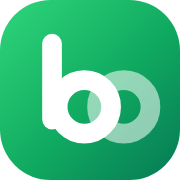
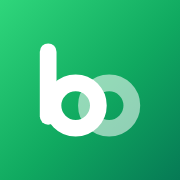
Bobobank: install on the home screen as an app
- Web app manifest and icons (180, 192, 512, maskable), iOS standalone meta tags; the app opens on /app without the address bar.
- Install hint on the home screen (dismissible) and in the profile: iPhone instructions for Safari, Chrome's own install dialog on Android.
- The header grows by the safe-area inset instead of squeezing its content under the notch.

Claude-Session: https://claude.ai/code/session_01468oEdDbCYZ4Yb862GyP5k

diff --git a/bobobank/web/src/components/InstallApp.tsx b/bobobank/web/src/components/InstallApp.tsx
@@ -1,0 +1,70 @@
+import { PlusSquare, Share, Smartphone, X } from 'lucide-react';
+import { useEffect, useState } from 'react';
+import { canPrompt, hideInstall, installHidden, isIOS, isStandalone, onInstallChange, promptInstall } from '../lib/install';
+import { LogoMark } from './Logo';
+import { Button, Modal } from './ui';
+
+/** Whether to offer the app at all: not inside the installed app, and only where it can be installed. */
+export function useInstallable() {
+  const [, render] = useState(0);
+  useEffect(() => onInstallChange(() => render((n) => n + 1)), []);
+  if (isStandalone()) return null;
+  if (isIOS()) return 'ios' as const;
+  if (canPrompt()) return 'prompt' as const;
+  return null;
+}
+
+/** iPhone: there is no install button in Safari, so we explain the two taps. */
+export function InstallSheet({ open, onClose }: { open: boolean; onClose: () => void }) {
+  return (
+    <Modal open={open} onClose={onClose} title="Bobobank на экране «Домой»" footer={<Button onClick={onClose}>Понятно</Button>}>
+      <ol className="flex flex-col gap-4 text-[15px]">
+        <li className="flex items-start gap-3">
+          <span className="flex size-8 shrink-0 items-center justify-center rounded-full bg-brand-soft font-semibold text-brand">1</span>
+          <span className="pt-1">Откройте сайт банка в <b className="font-semibold">Safari</b> и нажмите <Share className="mx-0.5 inline size-[18px] -translate-y-0.5 text-[#007AFF]" /> «Поделиться» внизу экрана.</span>
+        </li>
+        <li className="flex items-start gap-3">
+          <span className="flex size-8 shrink-0 items-center justify-center rounded-full bg-brand-soft font-semibold text-brand">2</span>
+          <span className="pt-1">Прокрутите список и выберите <PlusSquare className="mx-0.5 inline size-[18px] -translate-y-0.5" /> «На экран „Домой“».</span>
+        </li>
+        <li className="flex items-start gap-3">
+          <span className="flex size-8 shrink-0 items-center justify-center rounded-full bg-brand-soft font-semibold text-brand">3</span>
+          <span className="pt-1">Нажмите «Добавить». Иконка Bobobank появится рядом с другими приложениями и откроется на весь экран.</span>
+        </li>
+      </ol>
+      <p className="mt-4 text-sm text-muted">В приложении нужно будет один раз войти по номеру и паролю.</p>
+    </Modal>
+  );
+}
+
+/** Opens the right flow for the device: Chrome's dialog or the iPhone instructions. */
+export function useInstall() {
+  const kind = useInstallable();
+  const [sheet, setSheet] = useState(false);
+  const start = () => (kind === 'prompt' ? void promptInstall() : setSheet(true));
+  return { kind, start, sheet: <InstallSheet open={sheet} onClose={() => setSheet(false)} /> };
+}
+
+/** A dismissible card on the home screen. */
+export function InstallBanner() {
+  const { kind, start, sheet } = useInstall();
+  const [hidden, setHidden] = useState(installHidden);
+  if (!kind || hidden) return null;
+  return (
+    <>
+      <div className="flex items-center gap-3 rounded-2xl bg-surface p-4">
+        <LogoMark className="size-12 rounded-xl" />
+        <button type="button" onClick={start} className="min-w-0 flex-1 text-left">
+          <span className="block font-semibold">Установите Bobobank</span>
+          <span className="block text-sm text-muted">Иконка на экране «Домой» — банк откроется как приложение</span>
+        </button>
+        <button type="button" aria-label="Скрыть подсказку" onClick={() => (hideInstall(), setHidden(true))} className="flex size-8 shrink-0 items-center justify-center rounded-full text-muted hover:bg-hover">
+          <X className="size-4" />
+        </button>
+      </div>
+      {sheet}
+    </>
+  );
+}
+
+export const InstallIcon = Smartphone;

diff --git a/bobobank/web/src/app/Profile.tsx b/bobobank/web/src/app/Profile.tsx
@@ -1,6 +1,7 @@
 import { Check, Crown, KeyRound, LogOut, Moon, Phone, Shield } from 'lucide-react';
 import { useState } from 'react';
 import { useNavigate } from 'react-router-dom';
+import { InstallIcon, useInstall } from '../components/InstallApp';
 import { Row, Screen } from '../components/Screen';
 import { Badge, Button, Card, ErrorNote, Field, Input, Loading, Modal, Segmented, useToast } from '../components/ui';
 import { getTheme, setTheme, type Theme } from '../lib/theme';
@@ -20,6 +21,7 @@ export default function Profile() {
   const [pw, setPw] = useState(false);
   const [theme, setThemeState] = useState<Theme>(getTheme);
   const [busy, setBusy] = useState(false);
+  const install = useInstall();
   if (!data) return <Loading />;
   const p = data.profile;
   const prime = p.tariff === 'prime';
@@ -69,6 +71,12 @@ export default function Profile() {
         <span className="inline-flex items-center gap-2 font-medium"><Moon className="size-5 text-brand" />Тема</span>
         <Segmented value={theme} onChange={(t) => (setThemeState(t), setTheme(t))} options={[{ value: 'system', label: 'Как в системе' }, { value: 'light', label: 'Светлая' }, { value: 'dark', label: 'Тёмная' }]} />
       </Card>
+      {install.kind && (
+        <Card pad={false} className="mt-3 overflow-hidden">
+          <Row icon={<InstallIcon className="size-5 text-brand" />} title="Приложение на экране «Домой»" sub={install.kind === 'ios' ? 'Добавить иконку Bobobank на iPhone' : 'Установить Bobobank на телефон'} onClick={install.start} />
+        </Card>
+      )}
+      {install.sheet}
 
       <SectionTitle>Безопасность</SectionTitle>
       <Card pad={false} className="divide-y divide-line overflow-hidden">

diff --git a/bobobank/web/src/lib/install.ts b/bobobank/web/src/lib/install.ts
@@ -1,0 +1,59 @@
+/** "Add to Home Screen": iOS has no install prompt, so we show instructions; Chrome hands us its own prompt. */
+interface PromptEvent extends Event {
+  prompt: () => Promise<void>;
+  userChoice: Promise<{ outcome: 'accepted' | 'dismissed' }>;
+}
+
+let deferred: PromptEvent | null = null;
+const listeners = new Set<() => void>();
+
+if (typeof window !== 'undefined') {
+  window.addEventListener('beforeinstallprompt', (e) => {
+    e.preventDefault();
+    deferred = e as PromptEvent;
+    listeners.forEach((f) => f());
+  });
+  window.addEventListener('appinstalled', () => {
+    deferred = null;
+    listeners.forEach((f) => f());
+  });
+}
+
+export const onInstallChange = (f: () => void) => {
+  listeners.add(f);
+  return () => void listeners.delete(f);
+};
+
+export const isStandalone = () =>
+  matchMedia('(display-mode: standalone)').matches || (navigator as Navigator & { standalone?: boolean }).standalone === true;
+
+export const isIOS = () => /iPad|iPhone|iPod/.test(navigator.userAgent) || (navigator.platform === 'MacIntel' && navigator.maxTouchPoints > 1);
+
+export const canPrompt = () => !!deferred;
+
+/** Shows Chrome's install dialog; false when there is no prompt to show. */
+export async function promptInstall(): Promise<boolean> {
+  if (!deferred) return false;
+  const e = deferred;
+  deferred = null;
+  await e.prompt();
+  const { outcome } = await e.userChoice;
+  listeners.forEach((f) => f());
+  return outcome === 'accepted';
+}
+
+const KEY = 'bb-install-hidden';
+export function installHidden() {
+  try {
+    return localStorage.getItem(KEY) === '1';
+  } catch {
+    return false;
+  }
+}
+export function hideInstall() {
+  try {
+    localStorage.setItem(KEY, '1');
+  } catch {
+    /* private mode */
+  }
+}

diff --git a/bobobank/web/src/app/Home.tsx b/bobobank/web/src/app/Home.tsx
@@ -6,6 +6,7 @@ import { MiniCard } from '../components/BankCard';
 import { CATEGORY_STYLE, CategoryIcon } from '../components/CategoryIcon';
 import { EntryRow } from '../components/EntryRow';
 import { Favorites } from '../components/Favorites';
+import { InstallBanner } from '../components/InstallApp';
 import { RestrictionBanner } from '../components/RestrictionBanner';
 import { ActionTile } from '../components/Screen';
 import { ErrorNote, Loading, cx } from '../components/ui';
@@ -66,6 +67,7 @@ export default function HomePage() {
       </div>
 
       <RestrictionBanner items={data.restrictions} />
+      <InstallBanner />
 
       {data.applications.map((a) => (
         <button key={a.id} type="button" onClick={() => nav('/app/credits')} className={cx('flex w-full items-center gap-3 rounded-2xl p-4 text-left', a.status === 'approved' ? 'bg-brand text-on-brand' : 'bg-surface')}>

diff --git a/bobobank/web/src/app/Shell.tsx b/bobobank/web/src/app/Shell.tsx
@@ -103,7 +103,7 @@ export default function Shell() {
 
       <div className="min-w-0">
         {/* Top bar */}
-        <header className="sticky top-0 z-30 flex h-16 items-center justify-between gap-3 bg-bg px-4 pt-[env(safe-area-inset-top)] sm:px-6 lg:px-10">
+        <header className="sticky top-0 z-30 flex h-[calc(4rem+env(safe-area-inset-top))] items-center justify-between gap-3 bg-bg px-4 pt-[env(safe-area-inset-top)] sm:px-6 lg:px-10">
           <button type="button" onClick={() => nav('/app/profile')} className="flex min-w-0 items-center gap-2.5 lg:hidden">
             <span className="flex size-10 shrink-0 items-center justify-center rounded-full bg-brand text-on-brand text-lg font-semibold">{user?.name[0]}</span>
             <span className="truncate text-[15px] font-semibold">{user?.name.split(' ')[0]}</span>

diff --git a/bobobank/web/index.html b/bobobank/web/index.html
@@ -10,6 +10,12 @@
     <link rel="icon" type="image/svg+xml" href="/favicon.svg" />
     <link rel="icon" type="image/png" href="/favicon.png" />
     <link rel="apple-touch-icon" href="/apple-touch-icon.png" />
+    <link rel="manifest" href="/manifest.webmanifest" />
+    <meta name="mobile-web-app-capable" content="yes" />
+    <meta name="apple-mobile-web-app-capable" content="yes" />
+    <meta name="apple-mobile-web-app-title" content="Bobobank" />
+    <meta name="apple-mobile-web-app-status-bar-style" content="default" />
+    <meta name="format-detection" content="telephone=no" />
     <title>Bobobank — банк в телефоне</title>
   </head>
   <body>

diff --git a/bobobank/README.md b/bobobank/README.md
@@ -26,6 +26,10 @@
 | **Поддержка** | Чат в приложении; рабочее место оператора с карточкой клиента и шаблонами ответов (роль «Поддержка»). |
 | **Админка** `/admin` | Сводка и счета банка, клиенты, начисления и списания, аресты и блокировки, блокировка карт и входа, роли, заявки на кредит, ставки, курсы, пороги скоринга, проводки, журнал действий. |
 
+## Приложение на телефоне
+
+Банк можно добавить на экран «Домой» и открывать как приложение: на весь экран, без адресной строки, со своей иконкой. На iPhone откройте сайт в Safari, нажмите «Поделиться» и выберите «На экран „Домой“» (на главной и в профиле есть подсказка). На Android Chrome предложит установить приложение сам или по кнопке в профиле. Нужен HTTPS (на сервере он уже есть). В приложении один раз входят по номеру и паролю.
+
 ## Связка с GPAY
 
 - **Оплата картой Bobobank.** Страница оплаты GPAY знает хеши карт банка (номера не из списка не уходят на сервер). GPAY запрашивает авторизацию в банке; банк проверяет срок, CVC, статус карты, ограничения, лимит и баланс. Если включено подтверждение, клиент видит в приложении окно «Подтвердите покупку», а страница оплаты ждёт. Двухстадийные платежи — холд, списание или отмена по команде GPAY. Возвраты приходят на карту.
